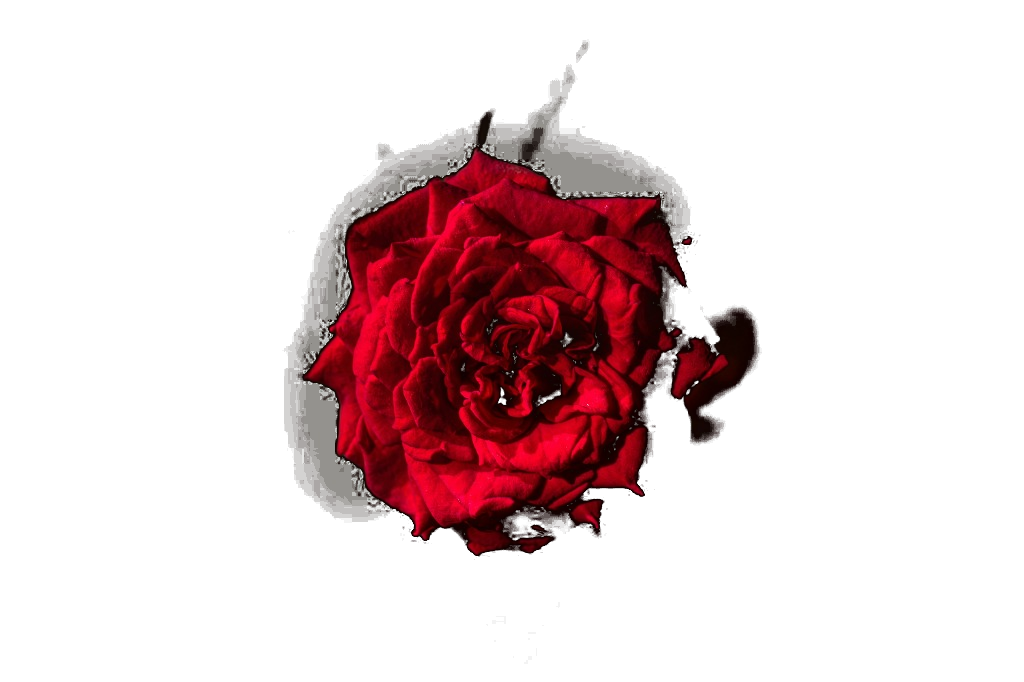
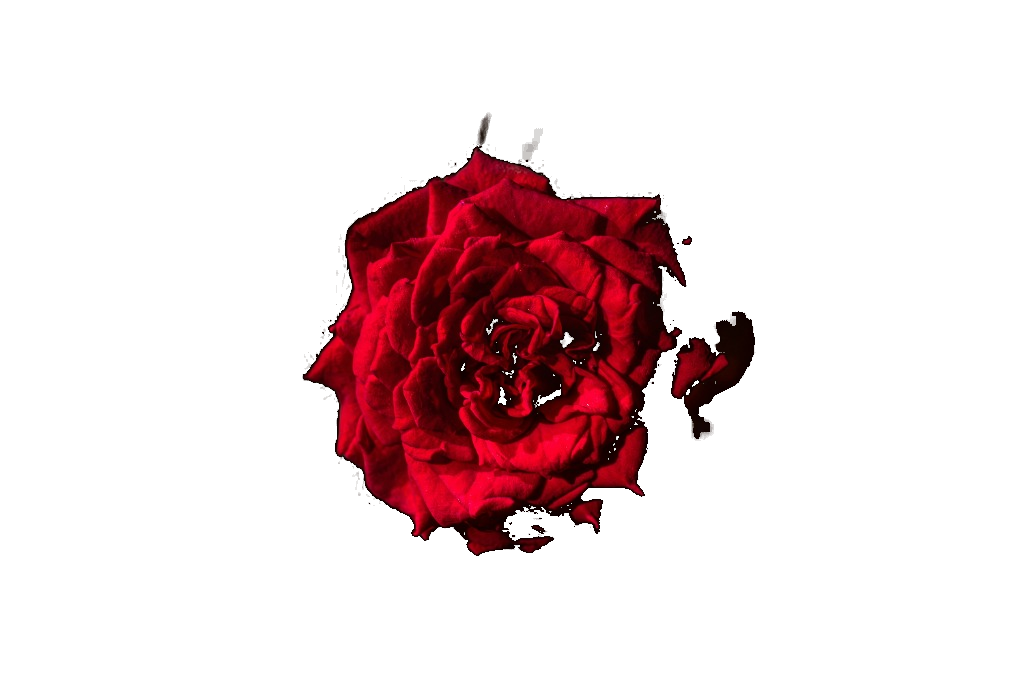
refactor(ceremony): adjust opacity and halo visuals
Reduce opacity and ambient halo intensity across animation states for a more subtle aesthetic. Update flower processing script to improve background noise detection.

diff --git a/src/components/ceremony/CeremonyFlower.tsx b/src/components/ceremony/CeremonyFlower.tsx
@@ -56,11 +56,11 @@ export const CeremonyFlower: React.FC<CeremonyFlowerProps> = ({
       lightX = 38 + easedT * 12;
       lightY = 25 + easedT * 18;
 
-      opacity = 0.08 + easedT * 0.32; // 0.08 -> 0.40
+      opacity = 0.05 + easedT * 0.25; // 0.05 -> 0.30
       scale = 0.985 + easedT * 0.01;
       rotation = -1.0 + easedT * 0.4;
       revealRadius = 20 + easedT * 30; // 20% -> 50%
-      ambientHaloOpacity = 0.12 * easedT;
+      ambientHaloOpacity = 0.06 * easedT;
       break;
     }
 
@@ -72,32 +72,32 @@ export const CeremonyFlower: React.FC<CeremonyFlowerProps> = ({
       lightX = 50;
       lightY = 48;
 
-      opacity = 0.40 + easedT * 0.44; // 0.40 -> 0.84
+      opacity = 0.30 + easedT * 0.36; // 0.30 -> 0.66
       scale = 0.995 + easedT * 0.005;
       rotation = -0.6 + easedT * 0.6;
       revealRadius = 50 + easedT * 50; // 50% -> 100%
-      ambientHaloOpacity = 0.12 + easedT * 0.28;
+      ambientHaloOpacity = 0.06 + easedT * 0.14; // 0.06 -> 0.20
       break;
     }
 
     case 'SIGNING': {
       // Act IV: Signature is drawing. Rose rests serenely as large atmospheric midground anchor behind signature
-      opacity = 0.84;
+      opacity = 0.66;
       scale = 1.0;
       rotation = 0;
       revealRadius = 100;
-      ambientHaloOpacity = 0.38;
+      ambientHaloOpacity = 0.20;
       break;
     }
 
     case 'CONVERGENCE': {
       // Act V Part 1: Convergence
       const t = Math.max(0, Math.min(1, convergenceProgress));
-      opacity = 0.84;
+      opacity = 0.66;
       scale = 1.0;
       rotation = 0;
       revealRadius = 100;
-      ambientHaloOpacity = 0.38 + t * 0.12;
+      ambientHaloOpacity = 0.20 + t * 0.06;
       break;
     }
 
@@ -106,41 +106,41 @@ export const CeremonyFlower: React.FC<CeremonyFlowerProps> = ({
       const t = Math.max(0, Math.min(1, climaxProgress));
       const breathCurve = Math.sin(t * Math.PI);
 
-      opacity = 0.84 + breathCurve * 0.06;
+      opacity = 0.66 + breathCurve * 0.06;
       scale = 1.0 + breathCurve * 0.028;
       rotation = 0;
       revealRadius = 100;
-      ambientHaloOpacity = 0.48 + breathCurve * 0.16;
+      ambientHaloOpacity = 0.24 + breathCurve * 0.08;
       break;
     }
 
     case 'SILENCE': {
       // Act V Part 3: Stillness
-      opacity = 0.84;
+      opacity = 0.66;
       scale = 1.005;
       rotation = 0;
       revealRadius = 100;
-      ambientHaloOpacity = 0.42;
+      ambientHaloOpacity = 0.22;
       break;
     }
 
     case 'ARRIVAL': {
       // Act VI: Harmonic lockup
-      opacity = 0.84;
+      opacity = 0.66;
       scale = 1.0;
       rotation = 0;
       revealRadius = 100;
-      ambientHaloOpacity = 0.38;
+      ambientHaloOpacity = 0.20;
       break;
     }
 
     case 'EXITING': {
       // Act VII: Smooth aperture transition into Hero
-      opacity = isExiting ? 0.30 : 0.65;
+      opacity = isExiting ? 0.20 : 0.50;
       scale = 1.08;
       rotation = 0.2;
       revealRadius = 100;
-      ambientHaloOpacity = 0.28;
+      ambientHaloOpacity = 0.14;
       break;
     }
 
@@ -176,8 +176,8 @@ export const CeremonyFlower: React.FC<CeremonyFlowerProps> = ({
         className="absolute w-[580px] sm:w-[700px] md:w-[820px] lg:w-[900px] aspect-square rounded-full pointer-events-none will-change-transform transition-all duration-700 ease-out"
         style={{
           background:
-            'radial-gradient(circle at 50% 46%, rgba(136, 19, 55, 0.10) 0%, rgba(159, 18, 57, 0.03) 42%, transparent 68%)',
-          filter: 'blur(55px)',
+            'radial-gradient(circle at 50% 46%, rgba(136, 19, 55, 0.06) 0%, rgba(159, 18, 57, 0.015) 38%, transparent 62%)',
+          filter: 'blur(60px)',
           opacity: ambientHaloOpacity,
           transform: `scale(${scale * 1.02})`,
         }}
@@ -190,8 +190,7 @@ export const CeremonyFlower: React.FC<CeremonyFlowerProps> = ({
         style={{
           opacity,
           transform: `scale(${scale}) rotate(${rotation}deg)`,
-          filter:
-            'brightness(0.66) contrast(1.08) drop-shadow(0 24px 48px rgba(0, 0, 0, 0.96))',
+          filter: 'brightness(0.50) contrast(1.14) saturate(1.10)',
           transition:
             phase === 'EMERGENCE' || phase === 'CLIMAX' || phase === 'AWAKENING'
               ? 'none'
